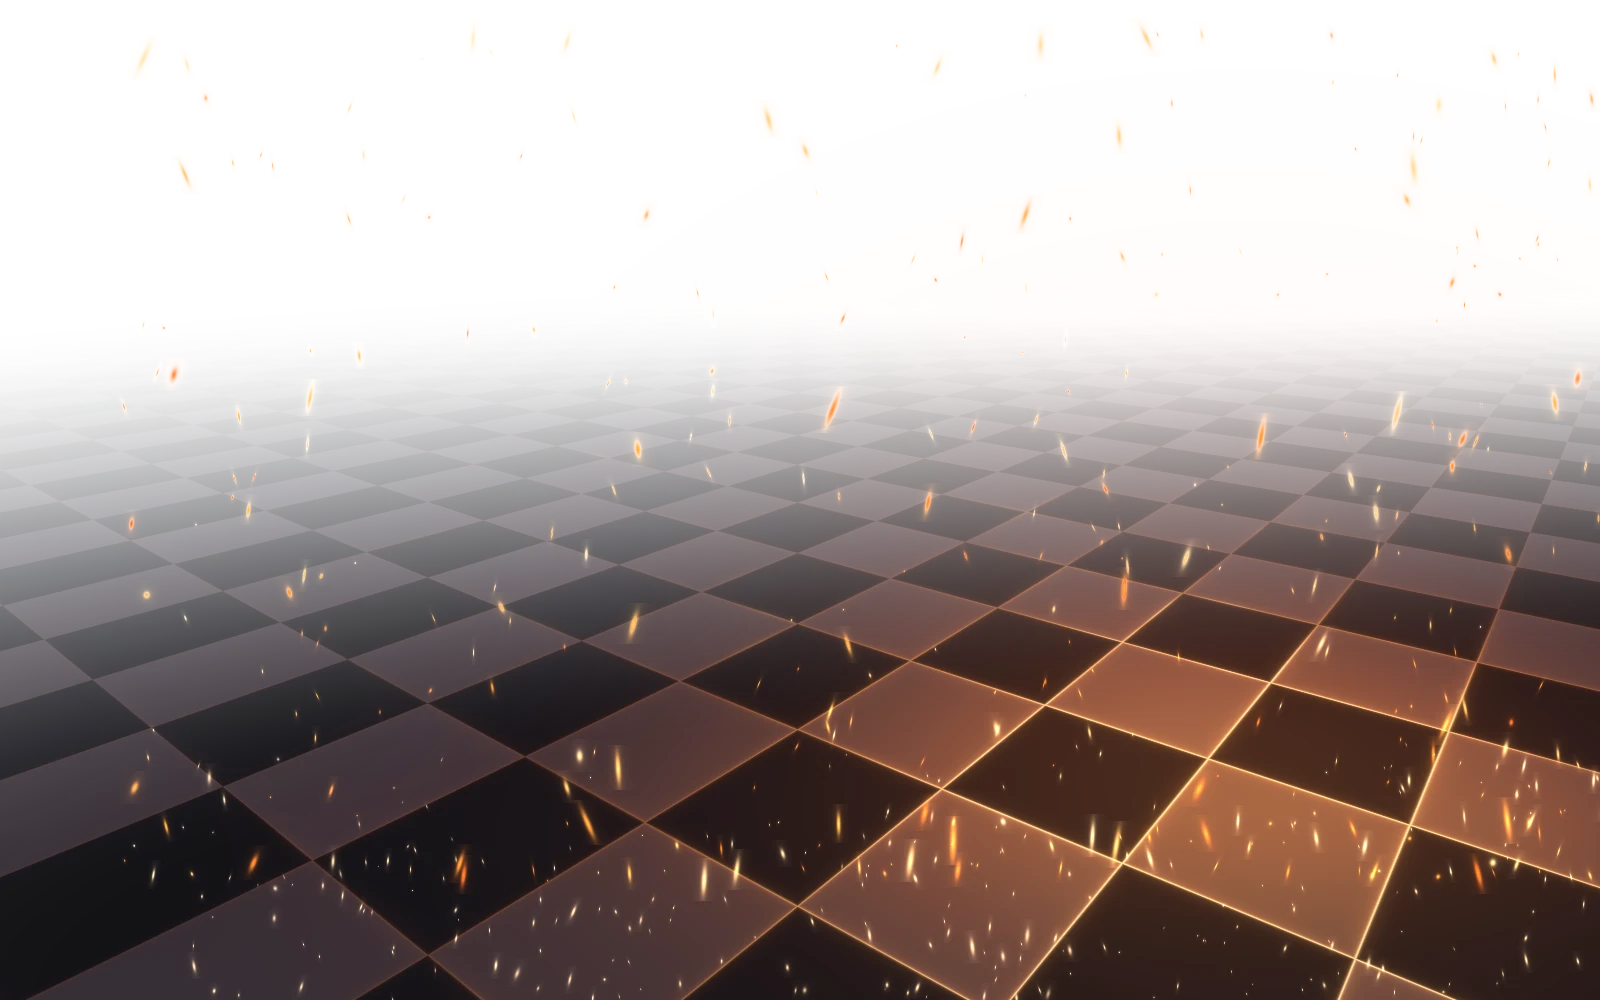
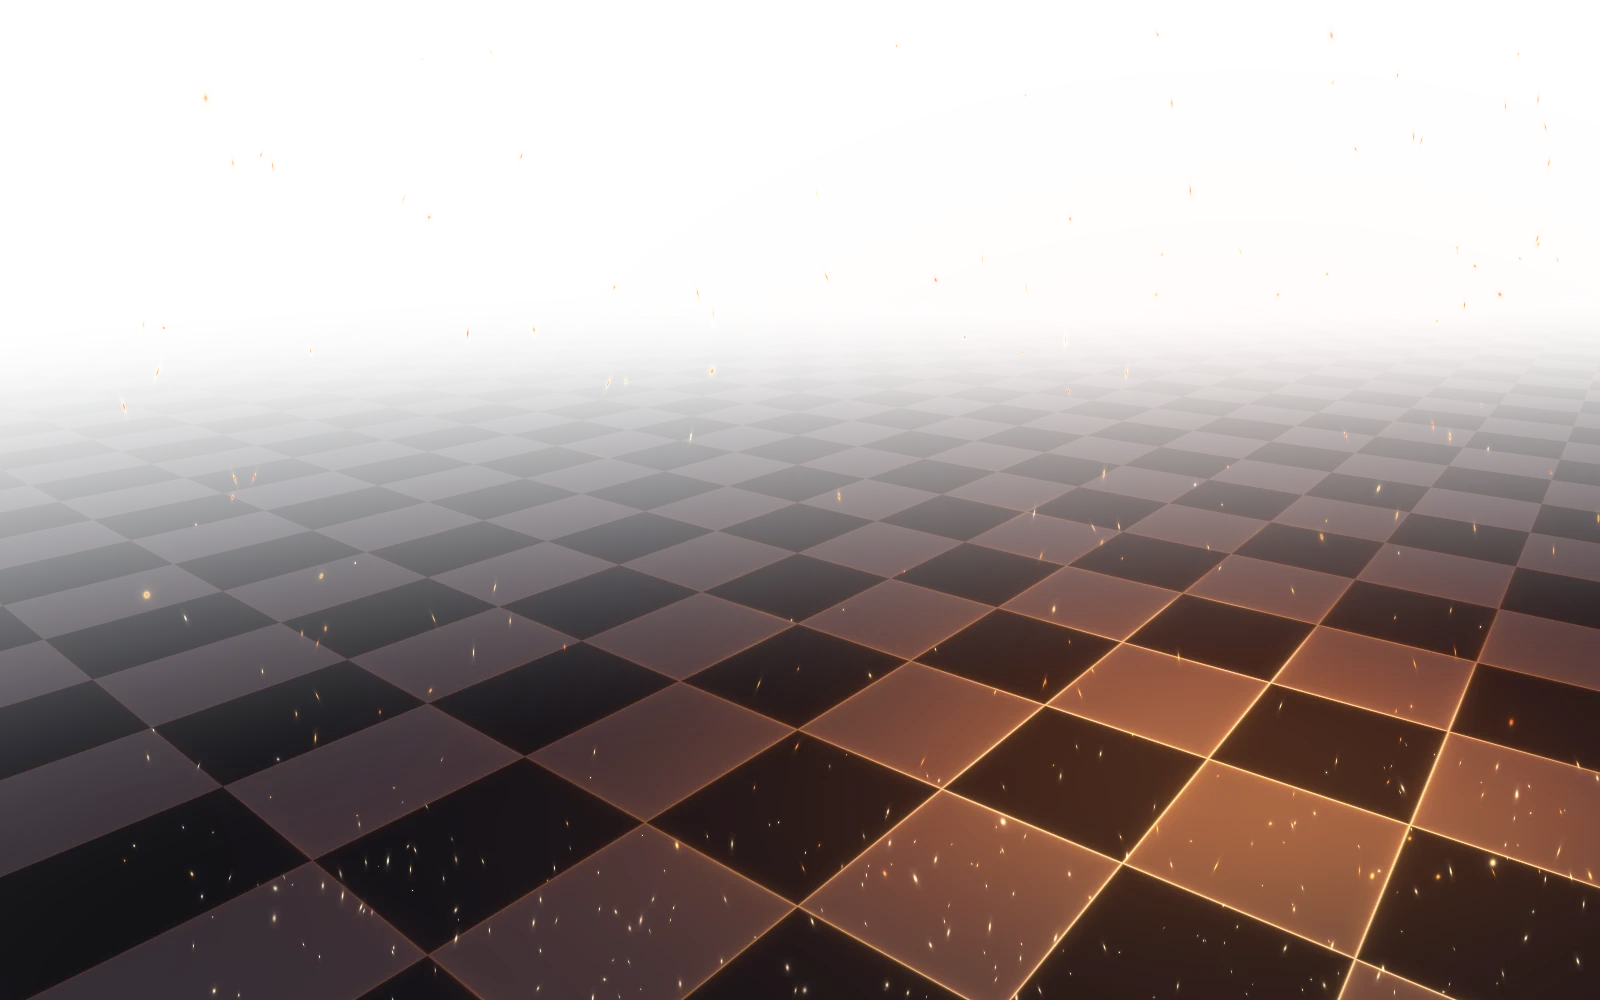
feat(web): auth pages on every device, no font flicker or autofill flash
- Board: the long ember streaks are gone (build-auth-board.mjs skips sparks with
  radius x stretch > 5; every other spark is byte-identical).
- Phones and tablets: the knight pictures are gone; the same board sits behind the
  card. Phones (and landscape below lg) show only logo + theme switch above the
  form. Footer links get the page-coloured pill at every size; the form side fills
  the screen.
- Only two pictures load per device (logo + board, current theme): both auth
  logos no longer preload (a preload fetched both theme files everywhere).
- Playfair preloads in the academy font group (academy page + auth pages), so the
  headline never swaps fonts after it shows.
- Autofill: the fields' box-shadow transition faded in the cover over Chrome's blue
  fill, so the blue flashed; autofilled inputs now replace that transition.
- The big desktop logo rises into place after the hero text.
- BACKLOG: hero-mobile/hero-knight-light added to the unused-asset list.

diff --git a/apps/web/src/features/auth/frame/AuthFrame.tsx b/apps/web/src/features/auth/frame/AuthFrame.tsx
@@ -80,25 +80,45 @@ function HeroLogo() {
 
   return (
     <div className="auth-hero-logo-cell pointer-events-none relative z-10 hidden items-center justify-center pr-[10%] lg:col-start-1 lg:row-start-2 lg:flex">
-      <div className="auth-hero-logo relative">
-        <span aria-hidden="true" className="auth-knight-glow absolute -inset-x-[30%] -inset-y-[80%] opacity-60 dark:opacity-35" />
-        <Link
-          aria-label={`${brandName} home`}
-          className="pointer-events-auto relative block rounded-control transition-opacity hover:opacity-90 focus-visible:outline focus-visible:outline-2 focus-visible:outline-offset-4 focus-visible:outline-login-gold"
-          href="/"
-        >
-          {/* Desktop only: no preload, so phones never fetch it. */}
-          <Logo priority={false} size={192} />
-        </Link>
-      </div>
+      {/* Rises into place after the hero text (the scale stays on the inner box). */}
+      <motion.div
+        animate={{ opacity: 1, y: 0 }}
+        initial={{ opacity: 0, y: 32 }}
+        transition={{ delay: 0.3, duration: 0.8, ease: [0.22, 1, 0.36, 1] }}
+      >
+        <div className="auth-hero-logo relative">
+          <span aria-hidden="true" className="auth-knight-glow absolute -inset-x-[30%] -inset-y-[80%] opacity-60 dark:opacity-35" />
+          <Link
+            aria-label={`${brandName} home`}
+            className="pointer-events-auto relative block rounded-control transition-opacity hover:opacity-90 focus-visible:outline focus-visible:outline-2 focus-visible:outline-offset-4 focus-visible:outline-login-gold"
+            href="/"
+          >
+            {/* Desktop only: no preload, so phones never fetch it. */}
+            <Logo priority={false} size={192} />
+          </Link>
+        </div>
+      </motion.div>
     </div>
   );
 }
 
 /**
- * The glowing chessboard along the foot of the page (desktop), with embers rising off it,
- * one transparent picture per theme (`apps/web/scripts/build-auth-board.mjs`). It starts
- * under the hero, so the hero's curve is where it ends on the left.
+ * The glowing chessboard with embers rising off it, one transparent picture per theme
+ * (`apps/web/scripts/build-auth-board.mjs`). Lazy: only the visible theme's copy, on the
+ * screen size that shows it, is ever fetched.
+ */
+function BoardPicture({ className, sizes }: { className: string; sizes: string }) {
+  return (
+    <>
+      <Image alt="" className={cn(className, "dark:hidden")} fill sizes={sizes} src="/auth/board-light.webp" />
+      <Image alt="" className={cn(className, "hidden dark:block")} fill sizes={sizes} src="/auth/board-dark.webp" />
+    </>
+  );
+}
+
+/**
+ * Desktop: the board along the foot of the page. It starts under the hero, so the hero's
+ * curve is where it ends on the left.
  */
 function PageBoard() {
   return (
@@ -106,21 +126,23 @@ function PageBoard() {
       aria-hidden="true"
       className="pointer-events-none absolute bottom-0 right-0 hidden aspect-[1600/1000] w-[calc(100%_-_var(--auth-hero-w)_*_0.7)] lg:block"
     >
-      <Image alt="" className="object-contain dark:hidden" fill sizes="70vw" src="/auth/board-light.webp" />
-      <Image alt="" className="hidden object-contain dark:block" fill sizes="70vw" src="/auth/board-dark.webp" />
+      <BoardPicture className="object-contain" sizes="70vw" />
     </div>
   );
 }
 
 /**
- * The form side's background: a soft champagne light, and below `lg` a faint
- * checkerboard (from `lg` the page's `PageBoard` runs under it instead).
+ * The form side's background: a soft champagne light, and on phones and tablets the
+ * board behind the card (from `lg` the page's `PageBoard` runs under it instead). It
+ * fills the lower part of the form side and is cropped to its glowing right-hand end.
  */
 function FormSideDecor() {
   return (
     <div aria-hidden="true" className="pointer-events-none absolute inset-0 overflow-hidden">
       <div className="auth-sweep absolute inset-0" />
-      <div className="auth-checker absolute bottom-0 right-0 h-2/5 w-3/4 lg:hidden" />
+      <div className="auth-board-mobile absolute inset-x-0 bottom-0 lg:hidden">
+        <BoardPicture className="object-cover object-[72%_100%]" sizes="(min-width: 640px) 150vw, 200vw" />
+      </div>
     </div>
   );
 }
@@ -135,8 +157,8 @@ function FooterLinks() {
 
   return (
     <footer className="flex justify-center text-sm text-app-muted">
-      {/* From `lg` the links sit on the glowing board, so they get a soft page-coloured backing. */}
-      <nav aria-label="Legal and help" className="lg:rounded-full lg:bg-login-page/80 lg:px-4 lg:py-1.5 lg:backdrop-blur-sm">
+      {/* The links sit on the glowing board on every screen, so they get a soft page-coloured backing. */}
+      <nav aria-label="Legal and help" className="rounded-full bg-login-page/80 px-4 py-1.5 backdrop-blur-sm">
         <ul className="flex items-center">
           {links.map((link, index) => (
             <li className={index > 0 ? "ml-4 border-l border-app-border pl-4" : undefined} key={link.href}>
@@ -175,11 +197,11 @@ export function AuthFrame({ children }: { children: ReactNode }) {
 
         <div className="relative flex min-h-dvh flex-col lg:grid lg:grid-cols-[minmax(0,var(--auth-hero-w))_minmax(0,1fr)] lg:grid-rows-[auto_minmax(0,1fr)]">
           <LoginHeroTop
-            className="auth-hero-mobile relative z-10 px-4 pb-10 pt-4 sm:px-8 sm:pt-6 lg:col-start-1 lg:row-start-1 lg:px-12 lg:pb-0 lg:pr-[7%] lg:pt-10 xl:px-16"
+            className="auth-hero-mobile relative z-10 px-4 pb-6 pt-4 sm:px-8 md:pb-10 sm:pt-6 lg:col-start-1 lg:row-start-1 lg:px-12 lg:pb-0 lg:pr-[7%] lg:pt-10 xl:px-16"
             copy={HERO_COPY}
           />
 
-          <div className="auth-form-side relative flex flex-col lg:col-start-2 lg:row-span-2 lg:row-start-1">
+          <div className="auth-form-side relative flex flex-1 flex-col lg:col-start-2 lg:row-span-2 lg:row-start-1">
             <FormSideDecor />
             {/* The page's card, centred: the space around it is even on opposite sides and at
                 least --auth-gap. The Privacy/Terms/Help links sit under it, outside the card:

diff --git a/apps/web/src/features/auth/frame/LoginHero.tsx b/apps/web/src/features/auth/frame/LoginHero.tsx
@@ -2,7 +2,6 @@
 
 import { motion } from "framer-motion";
 import { BarChart3, Crown, ShieldCheck, TrendingUp, Trophy, Users, type LucideIcon } from "lucide-react";
-import Image from "next/image";
 import Link from "next/link";
 import { Logo } from "@/components/Logo";
 import { ThemeToggle } from "@/components/ThemeToggle";
@@ -61,22 +60,6 @@ export function LoginHeroTop({ className, copy }: { className?: string; copy: Au
 
   return (
     <div className={cn("text-login-on-hero", className)}>
-      {/* Phones and tablets: the gold knight, kept to the right behind a fade of the hero colour
-          (the knight-and-board picture in dark, the knight in its rings in light). */}
-      <div aria-hidden="true" className="pointer-events-none absolute inset-0 overflow-hidden rounded-[inherit] lg:hidden">
-        <div className="absolute inset-0 hidden dark:block">
-          <Image alt="" className="object-cover object-[right_bottom]" fill priority sizes="(min-width: 1024px) 1px, 100vw" src="/auth/hero-mobile.webp" />
-        </div>
-        <div className="absolute bottom-[6%] right-[2%] aspect-square h-[62%] dark:hidden">
-          <span className="auth-knight-glow absolute inset-0" />
-          <span className="auth-knight-ring absolute inset-[12%]" />
-          <span className="auth-knight-ring absolute inset-[20%] opacity-70" />
-          <div className="absolute inset-y-[14%] left-1/2 aspect-[707/1100] -translate-x-1/2">
-            <Image alt="" className="object-contain" fill sizes="(min-width: 1024px) 1px, 40vw" src="/auth/hero-knight-light.webp" />
-          </div>
-        </div>
-        <div className="absolute inset-0 bg-gradient-to-r from-login-hero from-40% via-login-hero/85 via-65% to-login-hero/20" />
-      </div>
       <div className="relative flex items-center justify-between gap-4">
         <div className="flex min-w-0 items-center gap-6 xl:gap-12">
           {/* From `lg` the hero shows the logo large instead (AuthFrame's HeroLogo). */}
@@ -85,7 +68,9 @@ export function LoginHeroTop({ className, copy }: { className?: string; copy: Au
             className="shrink-0 rounded-control transition-opacity hover:opacity-90 focus-visible:outline focus-visible:outline-2 focus-visible:outline-offset-2 focus-visible:outline-login-gold lg:hidden"
             href="/"
           >
-            <Logo mobileSize={36} size={48} />
+            {/* No preload: a preload fetches both theme variants on every screen, this one included
+                where it's hidden (desktop). Lazy, only the visible one loads. */}
+            <Logo mobileSize={36} priority={false} size={48} />
           </Link>
           <div className="auth-badge hidden md:block">
             <AcademyBadge />
@@ -98,7 +83,7 @@ export function LoginHeroTop({ className, copy }: { className?: string; copy: Au
 
       <motion.div
         animate="animate"
-        className="relative mt-7 lg:mt-10"
+        className="auth-hero-copy relative mt-7 lg:mt-10"
         initial="initial"
         transition={{ duration: 0.6, ease: "easeOut" }}
         variants={rise}
@@ -133,7 +118,7 @@ export function LoginHeroTop({ className, copy }: { className?: string; copy: Au
         animate="animate"
         aria-label="Highlights"
         className={cn(
-          "relative mt-6 hidden flex-wrap gap-3 sm:flex lg:mt-8"
+          "auth-hero-extra relative mt-6 hidden flex-wrap gap-3 sm:flex lg:mt-8"
         )}
         initial="initial"
         transition={{ delay: 0.15, duration: 0.6, ease: "easeOut" }}

diff --git a/apps/web/src/features/auth/frame/auth-frame.css b/apps/web/src/features/auth/frame/auth-frame.css
@@ -52,6 +52,16 @@
   }
 }
 
+/* Phones (portrait, and on their side): only the logo and theme switch above the form,
+   no badge, headline, tagline or chips (owner 2026-11-24), so the form comes first. */
+@media (max-width: 767.98px), (max-width: 1023.98px) and (max-height: 500px) {
+  .auth-frame .auth-badge,
+  .auth-frame .auth-hero-copy,
+  .auth-frame .auth-hero-extra {
+    display: none;
+  }
+}
+
 /* The large logo in the desktop hero (rendered 192px tall): smaller beside a narrower
    hero or on a short screen, so it stays clear of the curve and the chips. */
 .auth-hero-logo {
@@ -144,11 +154,6 @@
   transform: rotate(-1.2deg);
 }
 
-/* The hero picture fades in from the hero colour above it (no seam on any height). */
-.auth-art-fade {
-  mask-image: linear-gradient(to bottom, transparent 0%, black 38%);
-}
-
 /* Glassy feature chips on the hero (cream in light, navy in dark). */
 .auth-glass {
   background: linear-gradient(
@@ -165,30 +170,15 @@
   border-radius: 9999px;
 }
 
-/* The gold rings around the knight on a phone's light hero, and the warm glow behind the
-   knight there and behind the logo on the desktop hero. */
-.auth-knight-ring {
-  border: 1.5px solid rgb(var(--rgb-login-gold) / 0.55);
-  border-radius: 9999px;
-  box-shadow: 0 0 18px rgb(var(--rgb-login-gold) / 0.25);
-}
-
+/* The warm glow behind the logo on the desktop hero. */
 .auth-knight-glow {
   background: radial-gradient(closest-side, rgb(var(--rgb-login-gold-light) / 0.75), transparent);
 }
 
-/* Faint checkerboard fading in from the bottom-right of the form side. */
-.auth-checker {
-  background-image: conic-gradient(
-    rgb(var(--rgb-login-gold) / 0.16) 25%,
-    transparent 0 50%,
-    rgb(var(--rgb-login-gold) / 0.16) 0 75%,
-    transparent 0
-  );
-  background-size: 96px 96px;
-  mask-image: radial-gradient(85% 75% at 100% 100%, black, transparent 72%);
-  transform: perspective(700px) rotateX(55deg);
-  transform-origin: bottom;
+/* Phones and tablets: the board behind the card, over the lower part of the form side.
+   Tall enough that its glowing squares show beside and below the card. */
+.auth-board-mobile {
+  height: max(60%, 22rem);
 }
 
 /* Soft champagne sweep across the form side. */

diff --git a/apps/web/src/styles/globals.css b/apps/web/src/styles/globals.css
@@ -519,11 +519,14 @@ html[data-theme-reveal]::view-transition-new(root) {
     @apply outline outline-2 outline-offset-2 outline-app-focus;
   }
 
-  /* Disable Chrome autofill background */
+  /* Disable Chrome autofill background. The inset shadow covers Chrome's blue fill; it must
+     apply at once, so the fields' box-shadow transition is replaced here (otherwise the blue
+     shows for a moment and then fades away), and Chrome's own background change is held off. */
   input:-webkit-autofill,
   input:-webkit-autofill:hover,
   input:-webkit-autofill:focus,
   input:-webkit-autofill:active {
+    transition: background-color 600000s 0s, color 600000s 0s !important;
     -webkit-box-shadow: 0 0 0 50px var(--color-surface) inset !important;
     -webkit-text-fill-color: var(--color-text) !important;
     caret-color: var(--color-text) !important;

diff --git a/apps/web/src/features/academy/fonts.generated.ts b/apps/web/src/features/academy/fonts.generated.ts
@@ -35,7 +35,7 @@ const playfairLatinExt = localFont({
 const playfairLatin = localFont({
   declarations: [{ prop: "unicode-range", value: "U+0000-00FF, U+0131, U+0152-0153, U+02BB-02BC, U+02C6, U+02DA, U+02DC, U+0304, U+0308, U+0329, U+2000-206F, U+20AC, U+2122, U+2191, U+2193, U+2212, U+2215, U+FEFF, U+FFFD" }],
   display: "swap",
-  preload: false,
+  preload: true,
   src: [
     { path: "../../assets/fonts/playfair/latin-600.woff2", style: "normal", weight: "600" },
     { path: "../../assets/fonts/playfair/latin-700.woff2", style: "normal", weight: "700" }

diff --git a/docs/BACKLOG.md b/docs/BACKLOG.md
@@ -229,12 +229,13 @@ its precondition, the student training surface, now exists).
   or bring back a light panel that uses it).
 
 - **Unused assets: `apps/web/public/auth/hero-scene.webp`, `form-bg-dark.webp`,
-  `form-bg-light.webp`, `logo-knight.webp`** (2026-11-24; moved there from `public/auth/v2/`). The desktop auth pages now
+  `form-bg-light.webp`, `logo-knight.webp`, `hero-mobile.webp`, `hero-knight-light.webp`** (2026-11-24; moved there from `public/auth/v2/`). The desktop auth pages now
   show the academy's logo in the hero and one glowing board under both halves
   (`board-{dark,light}.webp`, built by `apps/web/scripts/build-auth-board.mjs`),
   so the gold-knight scene and the form-side pictures are no longer referenced
-  (`logo-knight.webp` was already unused). `hero-mobile.webp` and
-  `hero-knight-light.webp` are still used below `lg`. Kept until the owner says delete.
+  (`logo-knight.webp` was already unused). Later the same day phones and tablets dropped
+  the knight pictures too (`hero-mobile.webp`, `hero-knight-light.webp`): they show the
+  same board behind the form. Kept until the owner says delete.
 
 - **Unused assets: `apps/web/public/academy/hero_light.webp` and `hero_dark.webp`**
   (2026-11-14). Both hero sections (`/` and `/academy`) now show the 3D board
